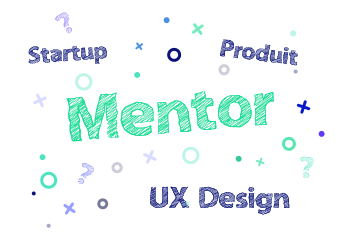
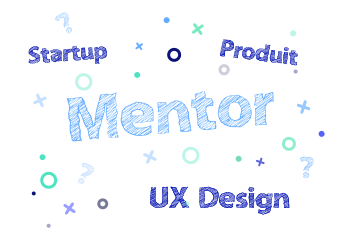
Modification des couleurs par projet

diff --git a/css/custom.css b/css/custom.css
@@ -4,10 +4,11 @@
 
 :root{
 	--blue:#0B1376;
-	--violet:#7938EA;
+	--violet:#8E44EA;
 	--orange:#f78d2d;
 	--green:#1CDC95;
 	--pink:#D8005A;
+	--moreblue:#63ACFF;
 	--lightblue:#509fff;
 }
 
@@ -25,7 +26,7 @@
 }
 
 .more, .more:hover, .more:active, .more:visited {
-	color:var(--green);
+	color:var(--moreblue);
 }
 
 /**** Miscellaneous ****/
@@ -612,12 +613,12 @@ a.btn-project-preview.mentor:focus {
 /*more button*/
 
 a.btn-project-preview.more {
-	border: solid 2px var(--green);
+	border: solid 2px var(--moreblue);
 }
 
 a.btn-project-preview.more:hover, 
 a.btn-project-preview.more:focus {
-	background-color: var(--green)
+	background-color: var(--moreblue)
 }
 
 
@@ -694,7 +695,7 @@ a.btn-project-preview::after/*, span.project-button::after*/ {
 }
 
 .jumbotron .dark-mask.more{
-    background: var(--green);
+    background: var(--moreblue);
 }
 
 .jumbotron h2 {
@@ -991,8 +992,22 @@ ul.link-project-preview > li {
 /**** OTHER PROJECTS ****/
 
 #other-projects {
-  background: var(--blue);
   padding: 30px 0 30px;
+} 
+
+#other-projects.zewaow {
+  background: var(--violet);
+  opacity: 0.9;
+} 
+
+#other-projects.viadeo {
+  background: var(--orange);
+  opacity: 0.9;
+} 
+
+#other-projects.more {
+  background: var(--moreblue);
+  opacity: 0.9;
 } 
 
 #other-projects a.work-arrow-title {

diff --git a/portfolio-viadeo.html b/portfolio-viadeo.html
@@ -295,7 +295,7 @@
         <!-- *** OTHER PROJECTS ***
 _________________________________________________________ -->
 
-        <div id="other-projects">
+        <div id="other-projects" class="viadeo">
             <div class="container">
                     <div class="row portfolio">
                         <div class="col-md-12">

diff --git a/portfolio-zewaow.html b/portfolio-zewaow.html
@@ -423,7 +423,7 @@
         <!-- *** OTHER PROJECTS ***
 _________________________________________________________ -->
 
-        <div id="other-projects">
+        <div id="other-projects" class="zewaow">
             <div class="container">
                     <div class="row portfolio">
                         <div class="col-md-12">

diff --git a/portfolio-more.html b/portfolio-more.html
@@ -333,7 +333,7 @@
         <!-- *** OTHER PROJECTS ***
 _________________________________________________________ -->
 
-        <div id="other-projects">
+        <div id="other-projects" class="more">
             <div class="container">
                     <div class="row portfolio">
                         <div class="col-md-12">
